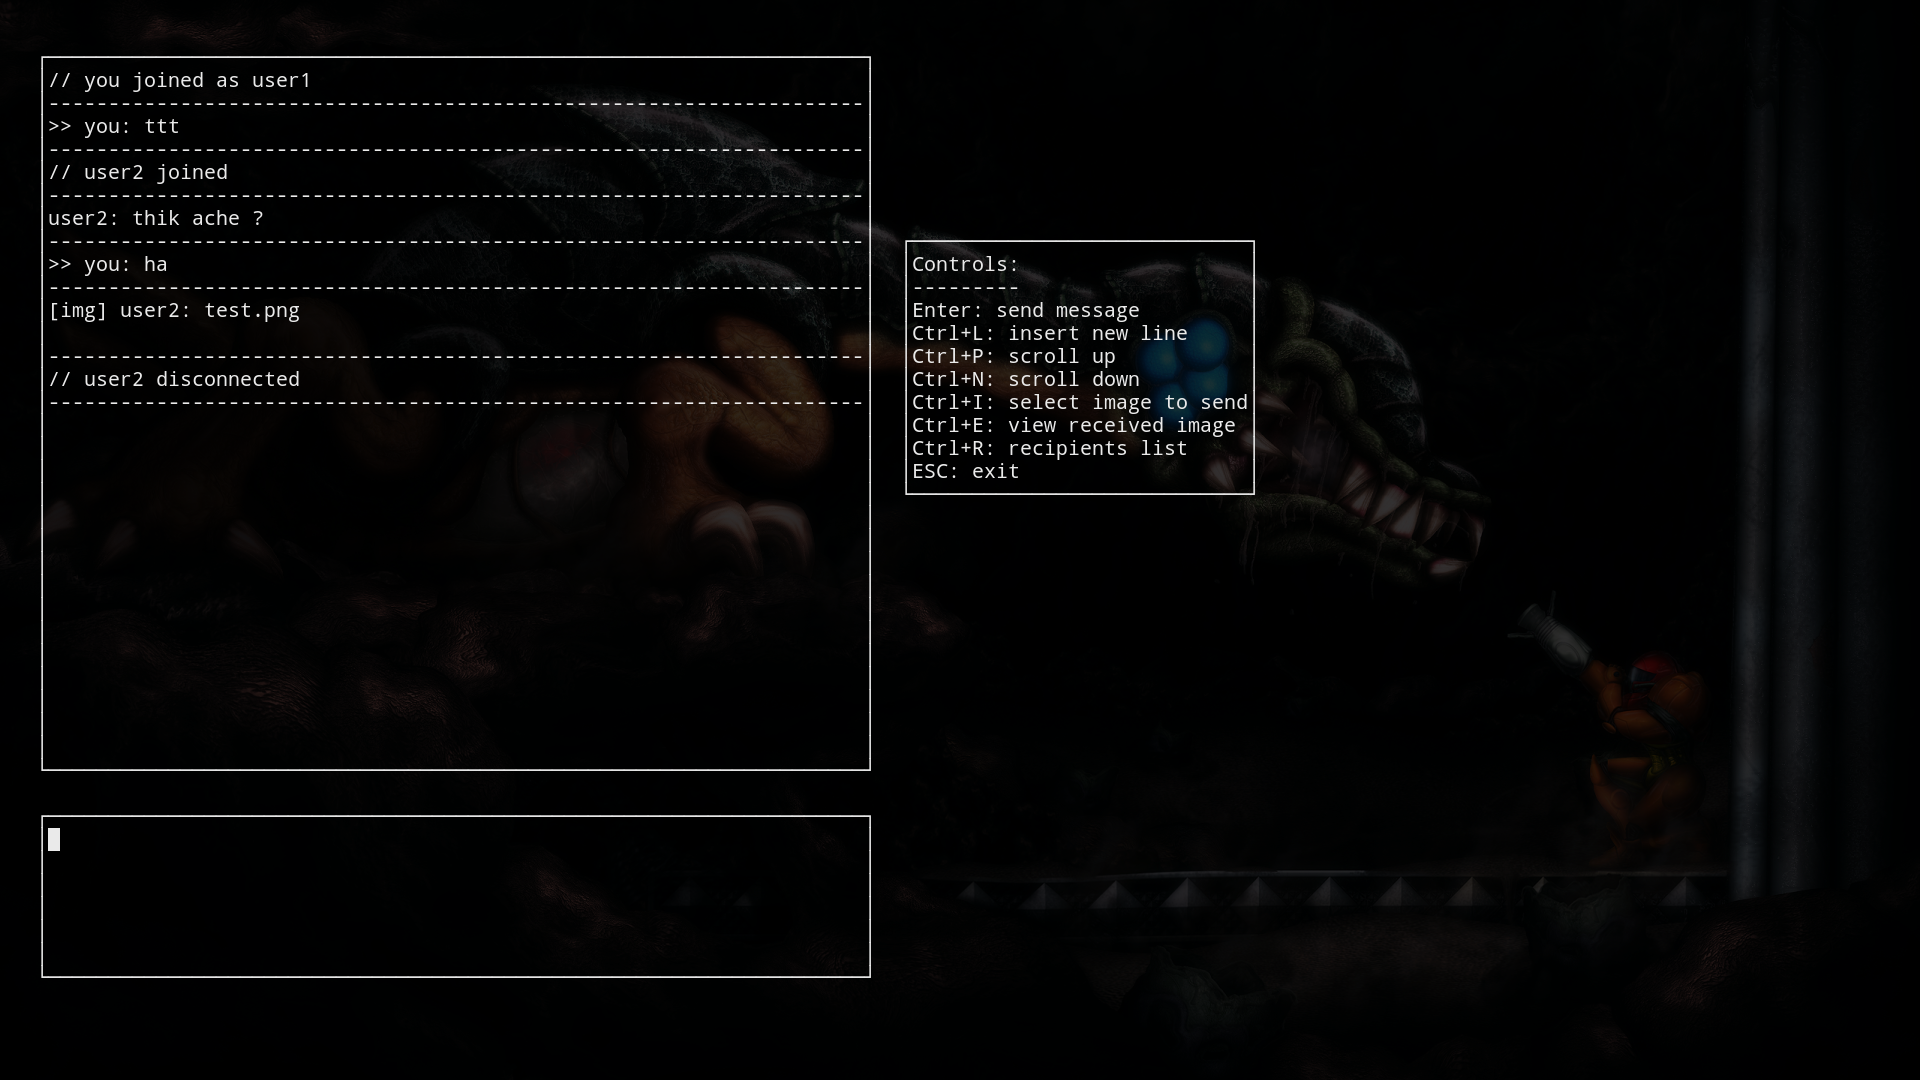
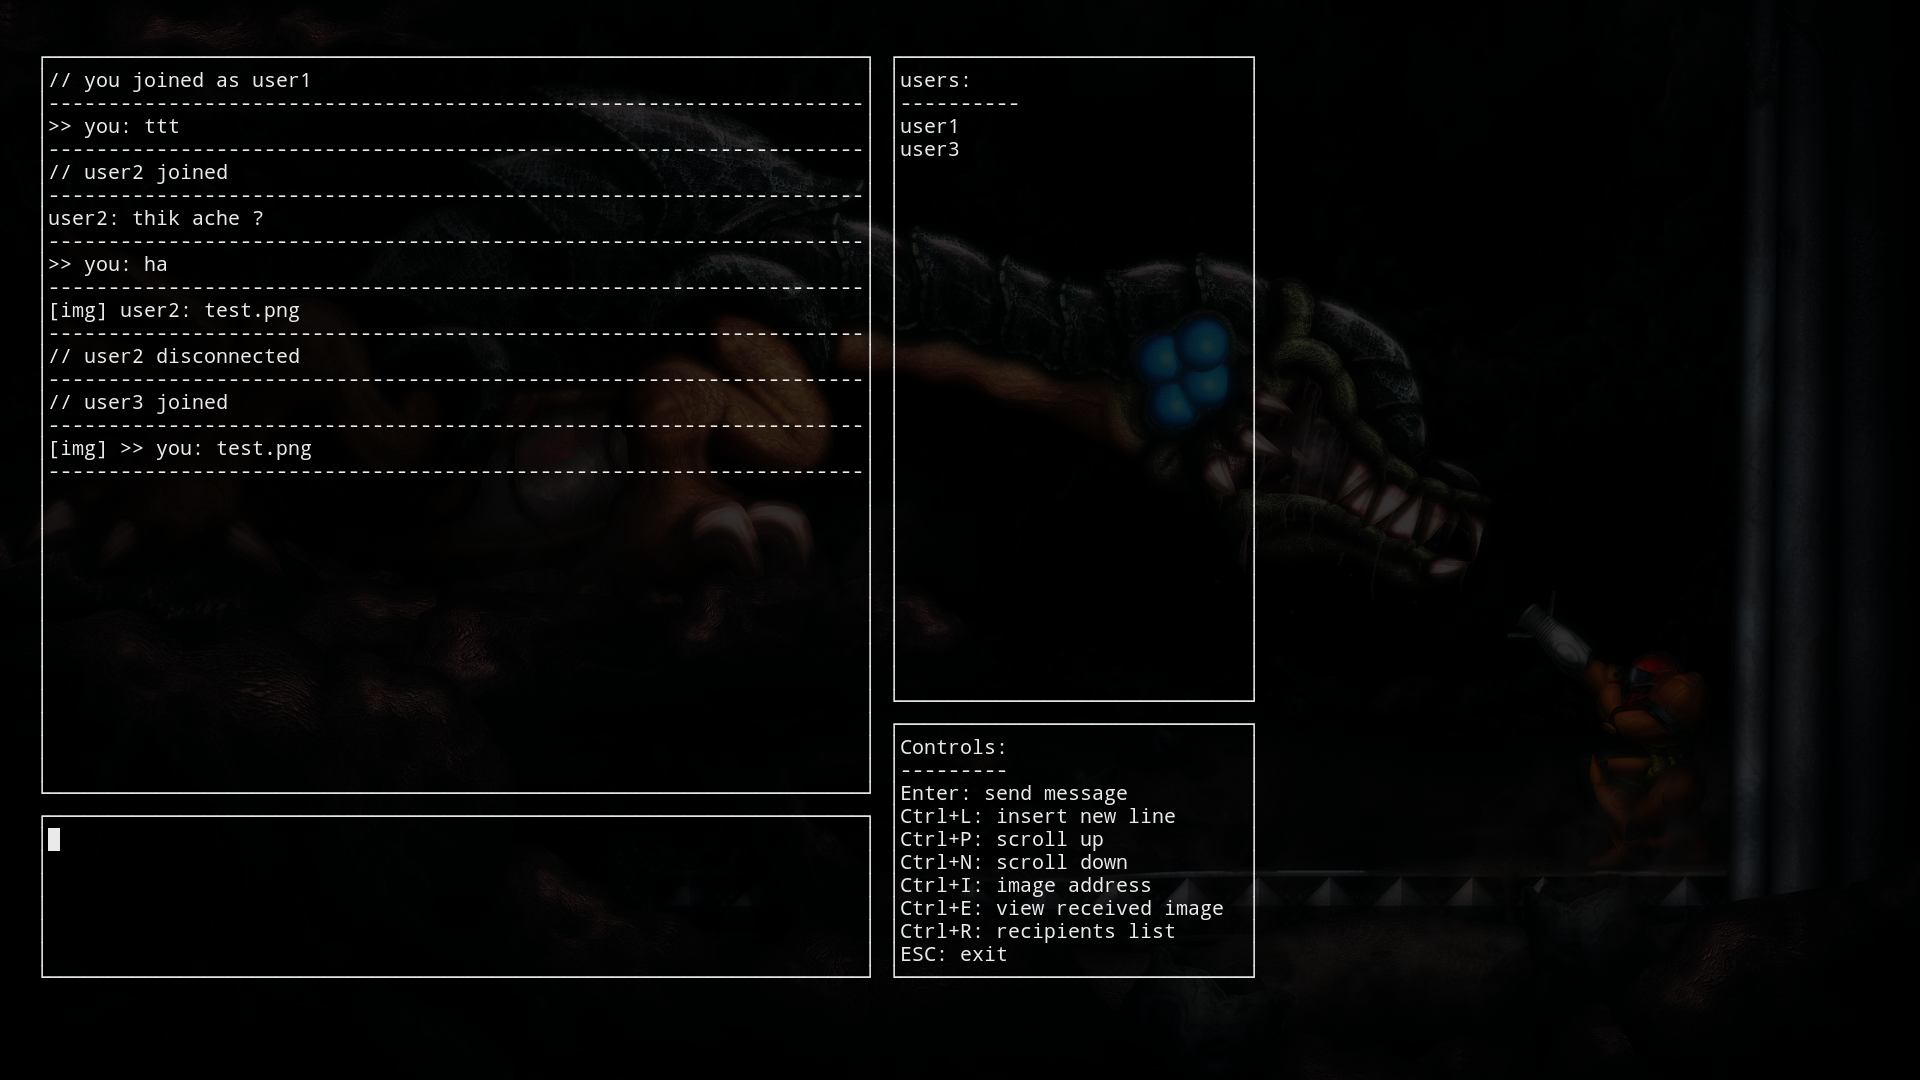
header e size deoa ache

diff --git a/node_server.js b/node_server.js
@@ -19,12 +19,37 @@ function img_send_some(socket)
     u = sock_map[socket._handle.fd];
     for(i = 0; i<recipients.length; i++)
     {
+	sender = "";
 	if(active_users.indexOf(recipients[i]) == -1) continue;
 	if(recipients[i] == u) continue;
+
 	sockets[recipients[i]].write(img);
-	sockets[recipients[i]].write("t[img] " + u + "[to " + String(recipients) + "]: test.png\n");
+	sender = u;
+
+	payload = ".....[img] " + sender + "[to " + String(recipients) + "]: test.png\n";
+	frame = Buffer.from(payload, 'utf8');
+	psize = frame.length - 5;
+
+	frame[0] = 116;
+	frame[1] = (psize & 0xFF000000)>>24;
+	frame[2] = (psize & 0x00FF0000)>>16;
+	frame[3] = (psize & 0x0000FF00)>>8;
+	frame[4] = (psize & 0x000000FF);
+
+	sockets[recipients[i]].write(frame);
     }
-    socket.write("t[img] " + "you" + "[to " + String(recipients) + "]: test.png\n");
+    // sending sender
+    payload = ".....[img] " + "you" + "[to " + String(recipients) + "]: test.png\n";
+    frame = Buffer.from(payload, 'utf8');
+    psize = frame.length - 5;
+
+    frame[0] = 116;
+    frame[1] = (psize & 0xFF000000)>>24;
+    frame[2] = (psize & 0x00FF0000)>>16;
+    frame[3] = (psize & 0x0000FF00)>>8;
+    frame[4] = (psize & 0x000000FF);
+
+    socket.write(frame);
 }
 function img_send_all(socket)
 {
@@ -34,11 +59,20 @@ function img_send_all(socket)
 	sockets[active_users[i]].write(img); // nije ke pathate hobe na
 
 	sender = "";
-	if(sock_map[socket._handle.fd] == active_users[i])
-	    sender = ">> you";
+	if(sock_map[socket._handle.fd] == active_users[i]) sender = ">> you";
 	else sender = sock_map[socket._handle.fd];
 
-	sockets[active_users[i]].write("t[img] " + sender + ": test.png\n");
+	payload = ".....[img] " + sender + ": test.png\n";
+	frame = Buffer.from(payload, 'utf8');
+	psize = frame.length - 5;
+
+	frame[0] = 116;
+	frame[1] = (psize & 0xFF000000)>>24;
+	frame[2] = (psize & 0x00FF0000)>>16;
+	frame[3] = (psize & 0x0000FF00)>>8;
+	frame[4] = (psize & 0x000000FF);
+
+	sockets[active_users[i]].write(frame);
 	console.log("img: sending " + active_users[i]);
     }
 }
@@ -135,10 +169,21 @@ server.on("connection", function(socket){
 	    active_users.push(sock_map[fd]); // er por onnno client der data jabe
 	    for(i=0; i<active_users.length; i++) // sending joined message
 	    {
-	        if(sock_map[fd] == active_users[i])
-	    	sockets[active_users[i]].write("t// you joined as " + sock_map[fd] + "\n");
-	        else
-	    	sockets[active_users[i]].write("c// " + sock_map[fd] + " joined\n");
+		payload = "";
+	        if(sock_map[fd] == active_users[i]) { payload = "// you joined as " + sock_map[fd] + "\n"; }
+	        else { payload = "// " + sock_map[fd] + " joined\n"; }
+		payload = "....." + payload;
+		frame = Buffer.from(payload, 'utf8');
+		psize = frame.length - 5;
+
+		if(sock_map[fd] == active_users[i]) frame[0] = 116;
+		else frame[0] = 99;
+		frame[1] = (psize & 0xFF000000)>>24;
+		frame[2] = (psize & 0x00FF0000)>>16;
+		frame[3] = (psize & 0x0000FF00)>>8;
+		frame[4] = (psize & 0x000000FF);
+
+	    	sockets[active_users[i]].write(frame);
 	    }
 	    phase[fd] = 5;
 	    break;
@@ -152,10 +197,24 @@ server.on("connection", function(socket){
 		buffer = buffer.slice(1);
 		for(i=0; i<active_users.length; i++)
 		{
-		    sender = "t";
-		    if(sock_map[fd] == active_users[i]) sender = sender + ">> you";
-		    else sender = sender + sock_map[fd];
-		    sockets[active_users[i]].write(sender + ": " + buffer + "\n");
+		    sender = "";
+		    if(sock_map[fd] == active_users[i]) sender = ">> you";
+		    else sender = sock_map[fd];
+
+		    payload = "....." + sender + ": " + buffer + "\n";
+		    frame = Buffer.from(payload, 'utf8');
+		    psize = frame.length - 5;
+
+		    frame[0] = 116;
+		    frame[1] = (psize & 0xFF000000)>>24;
+		    frame[2] = (psize & 0x00FF0000)>>16;
+		    frame[3] = (psize & 0x0000FF00)>>8;
+		    frame[4] = (psize & 0x000000FF);
+
+		    console.log("payload: " + payload);
+		    console.log(frame);
+		    console.log(psize);
+		    sockets[active_users[i]].write(frame);
 		}
 		break;
 
@@ -180,7 +239,7 @@ server.on("connection", function(socket){
 		data =  String(buffer.slice(d+1)); console.log("text data: " + buffer.slice(d+1));
 		recipients = String(buffer.slice(1, d));
 		recipients = recipients.split(" ");
-		console.log("recipients: " + recipients);
+
 		i = 0
 		while(i < recipients.length)
 		{
@@ -193,11 +252,35 @@ server.on("connection", function(socket){
 		console.log("recipients: " + recipients);
 		for(i=0; i<recipients.length; i++)
 		{
+		    sender = "";
 		    if(active_users.indexOf(recipients[i]) == -1) continue;
 		    if(recipients[i] == sock_map[fd]) continue;
-		    sockets[recipients[i]].write("t" + sock_map[fd] + "[to " + String(recipients) + "]: " + data + "\n");
+		    sender = sock_map[fd];
+
+		    payload = "....." + sender + "[to " + String(recipients) + "]: " + data + "\n";
+		    frame = Buffer.from(payload, 'utf8');
+		    psize = frame.length - 5;
+
+		    frame[0] = 116;
+		    frame[1] = (psize & 0xFF000000)>>24;
+		    frame[2] = (psize & 0x00FF0000)>>16;
+		    frame[3] = (psize & 0x0000FF00)>>8;
+		    frame[4] = (psize & 0x000000FF);
+
+		    sockets[recipients[i]].write(frame);
 		}
-		sockets[sock_map[fd]].write("t>> you" + "[to " + String(recipients) +"]: " + data + "\n");
+		// sending sender
+		payload = "....." + ">> you" + "[to " + String(recipients) + "]: " + data + "\n";
+		frame = Buffer.from(payload, 'utf8');
+		psize = frame.length - 5;
+
+		frame[0] = 116;
+		frame[1] = (psize & 0xFF000000)>>24;
+		frame[2] = (psize & 0x00FF0000)>>16;
+		frame[3] = (psize & 0x0000FF00)>>8;
+		frame[4] = (psize & 0x000000FF);
+
+		socket.write(frame);
 		break;
 
 		case 115: // [s] recipient list ache + image
@@ -236,8 +319,18 @@ server.on("connection", function(socket){
 		{
 		    for(i=0; i<active_users.length; i++) // sending disconnected message
 		    {
-			if(sock_map[fd] != active_users[i])
-			    sockets[active_users[i]].write("d// " + sock_map[fd] + " disconnected\n");
+			if(sock_map[fd] == active_users[i]) continue;
+			payload = ".....// " + sock_map[fd] + " disconnected\n";
+			frame = Buffer.from(payload, 'utf8');
+			psize = frame.length - 5;
+
+			frame[0] = 100;
+			frame[1] = (psize & 0xFF000000)>>24;
+			frame[2] = (psize & 0x00FF0000)>>16;
+			frame[3] = (psize & 0x0000FF00)>>8;
+			frame[4] = (psize & 0x000000FF);
+
+			sockets[active_users[i]].write(frame);
 		    }
 		    r = active_users.indexOf(sock_map[fd]);
 		    if(r != -1) active_users.splice(r, 1);
@@ -269,5 +362,12 @@ server.listen(8001, function(){
 });
 
 
-
+// test
+// ----------------
+// text
+// image
+// text + recipient x 2
+// image + recipient x 2
+// connect
+// disconnect
 

diff --git a/client.c b/client.c
@@ -461,12 +461,12 @@ void receiver() // receiver marker
 {
     // fprintf(err_fp, "debug reciver 1\n"); fflush(err_fp);
 
-    int idx = 0, disconnect_counter = 0, i, size1;
+    int idx = 0, disconnect_counter = 0, i, size1, psize;
     char* tmp;
     while(1)
     {
 	fill_zero(buffer, 1024); // reset buffer
-	int read_bytes = read(sockfd, buffer, 1024);
+	int read_bytes = read(sockfd, buffer, 5);
 
 	if(read_bytes == 0)
 	{
@@ -490,34 +490,47 @@ void receiver() // receiver marker
 	    break;
 
 	case 't': // text eseche
-	    i = 1;
+	    i = 0;
 	    sem_wait(mutex1); // critical start
-	    while(buffer[i] != '\0') output_buffer[idx++] = buffer[i++];
-	    size1 = width-2; while(size1--) output_buffer[idx++] = '-'; // output_buffer[idx++] = '\n';
+	    psize = (buffer[1] << 24) | (buffer[2] << 16) | (buffer[3] << 8) | buffer[4]; // calculate payload size
+	    fill_zero(buffer, 1024); // reset buffer
+	    read_bytes = read(sockfd, buffer, psize); // read required bytes
+
+	    while(buffer[i] != '\0') output_buffer[idx++] = buffer[i++]; // copy to output buffer
+	    size1 = width-2; while(size1--) output_buffer[idx++] = '-'; //  ------- line
 	    sem_post(mutex1); // critical end
 	    break;
 
 	case 'c': // user connected
-	    fprintf(err_fp, "debug user connected\n"); fflush(err_fp);
-	    i = 1;
+	    if(debug) fprintf(err_fp, "debug user connected\n"); fflush(err_fp);
+	    i = 0;
 	    sem_wait(mutex1); // critical start
-	    tmp = get_word(buffer+4);
+	    psize = (buffer[1] << 24) | (buffer[2] << 16) | (buffer[3] << 8) | buffer[4]; // calculate payload size
+	    fill_zero(buffer, 1024); // reset buffer
+	    read_bytes = read(sockfd, buffer, psize); // read required bytes
+
+	    tmp = get_word(buffer+3);
 	    add_user(users_list, tmp);
 	    while(buffer[i] != '\0') output_buffer[idx++] = buffer[i++];
-	    size1 = width-2; while(size1--) output_buffer[idx++] = '-'; // output_buffer[idx++] = '\n';
+	    size1 = width-2; while(size1--) output_buffer[idx++] = '-'; //  ------- line
 	    *hard = 1;
 	    sem_post(mutex1); // critical end
 	    free(tmp);
 	    break;
 
 	case 'd': // user disconnected
-	    fprintf(err_fp, "debug user disconnected\n"); fflush(err_fp);
-	    i = 1;
+	    if(1) fprintf(err_fp, "debug user disconnected\n"); fflush(err_fp);
+	    i = 0;
 	    sem_wait(mutex1); // critical start
-	    tmp = get_word(buffer+4);
+	    psize = (buffer[1] << 24) | (buffer[2] << 16) | (buffer[3] << 8) | buffer[4]; // calculate payload size
+	    fill_zero(buffer, 1024); // reset buffer
+	    read_bytes = read(sockfd, buffer, psize); // read required bytes
+	    fprintf(err_fp, "debug disconnect 2nd read: %s\n", buffer); fflush(err_fp);
+
+	    tmp = get_word(buffer+3);
 	    remove_user(users_list, tmp);
 	    while(buffer[i] != '\0') output_buffer[idx++] = buffer[i++];
-	    size1 = width-2; while(size1--) output_buffer[idx++] = '-'; // output_buffer[idx++] = '\n';
+	    size1 = width-2; while(size1--) output_buffer[idx++] = '-'; //  ------- line
 	    *hard = 1;
 	    sem_post(mutex1); // critcal end
 	    free(tmp);
